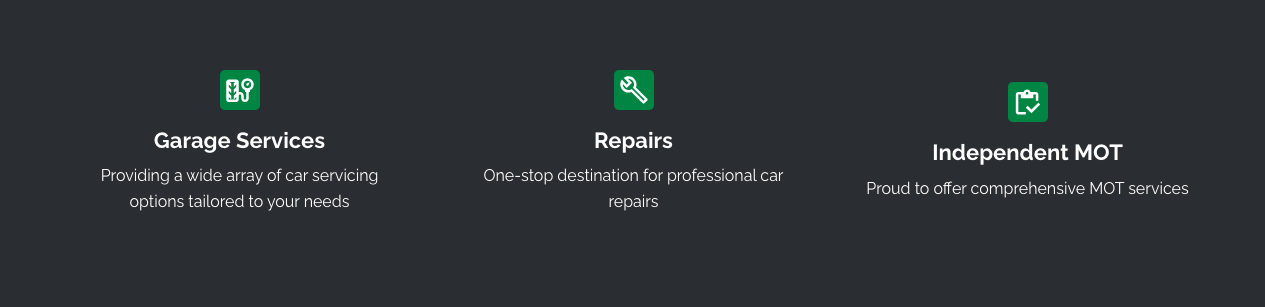
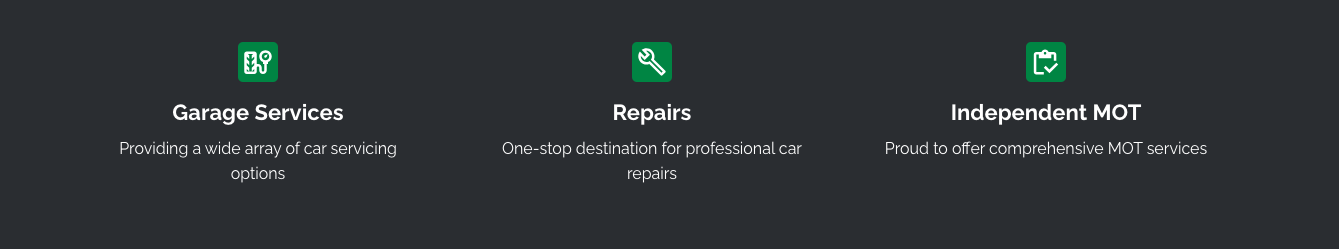
Fix

diff --git a/src/codeSnippets.jsx b/src/codeSnippets.jsx
@@ -586,24 +586,27 @@ export const codeSnippets = [
       category: "blocks",
       codeblock: [
         {
-          code: `<div class="additional-style additional-style-22 clearfix">
-    <div class="additional-style-wrap">
-        <div class="additional-style-inner">
-            <ul>
-                <li><img src="https://s3-eu-west-1.amazonaws.com/files.autopromotor/11933/websiteMedia/4224/1726500172-tire_repair.svg" class="fr-fic fr-dib" data-id="65532">
-                    <h4>Garage Services</h4>
-                    <p>Providing a wide array of car servicing options tailored to your needs</p>
-                </li>
-                <li><img src="https://s3-eu-west-1.amazonaws.com/files.autopromotor/11933/websiteMedia/4224/1726500179-build.svg" class="fr-fic fr-dib" data-id="65535">
-                    <h4>Repairs</h4>
-                    <p>One-stop destination for professional car repairs</p>
-                </li>
-                <li><img src="https://s3-eu-west-1.amazonaws.com/files.autopromotor/11933/websiteMedia/4224/1726500189-inventory.svg" class="fr-fic fr-dib" data-id="65538">
-                    <h4>Independent MOT</h4>
-                    <p>Proud to offer comprehensive MOT services</p>
-                </li>
-            </ul>
-        </div></div></div>
+          code: `<div class="additional-style additional-style-21 clearfix">
+          <div class="additional-style-wrap">
+              <div class="additional-style-inner">
+                  <ul>
+                    <li><img src="https://s3-eu-west-1.amazonaws.com/files.autopromotor/11933/websiteMedia/4224/1726500172-tire_repair.svg" class="fr-fic fr-dib" data-id="65532">
+                        <h4>Garage Services</h4>
+                        <p>Providing a wide array of car servicing options</p>
+                    </li>
+                    <li><img src="https://s3-eu-west-1.amazonaws.com/files.autopromotor/11933/websiteMedia/4224/1726500179-build.svg" class="fr-fic fr-dib" data-id="65535">
+                        <h4>Repairs</h4>
+                        <p>One-stop destination for professional car repairs</p>
+                    </li>
+                    <li><img src="https://s3-eu-west-1.amazonaws.com/files.autopromotor/11933/websiteMedia/4224/1726500189-inventory.svg" class="fr-fic fr-dib" data-id="65538">
+                        <h4>Independent MOT</h4>
+                        <p>Proud to offer comprehensive MOT services</p>
+                    </li>
+                  </ul>
+              </div>
+          </div>
+      </div>
+      
       `
         }
       ]
